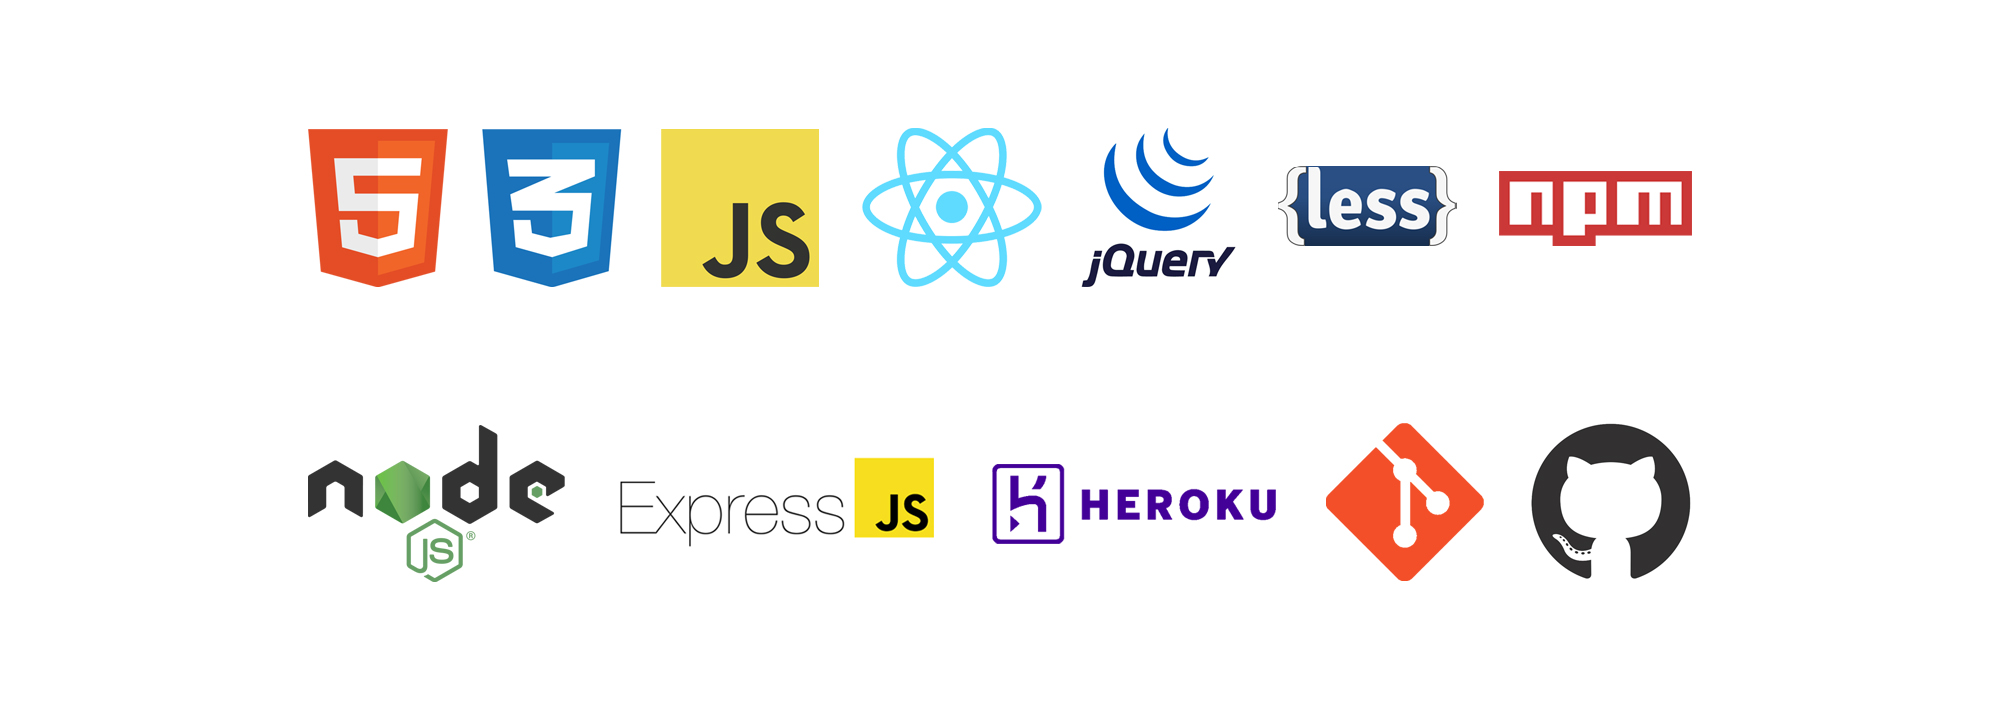
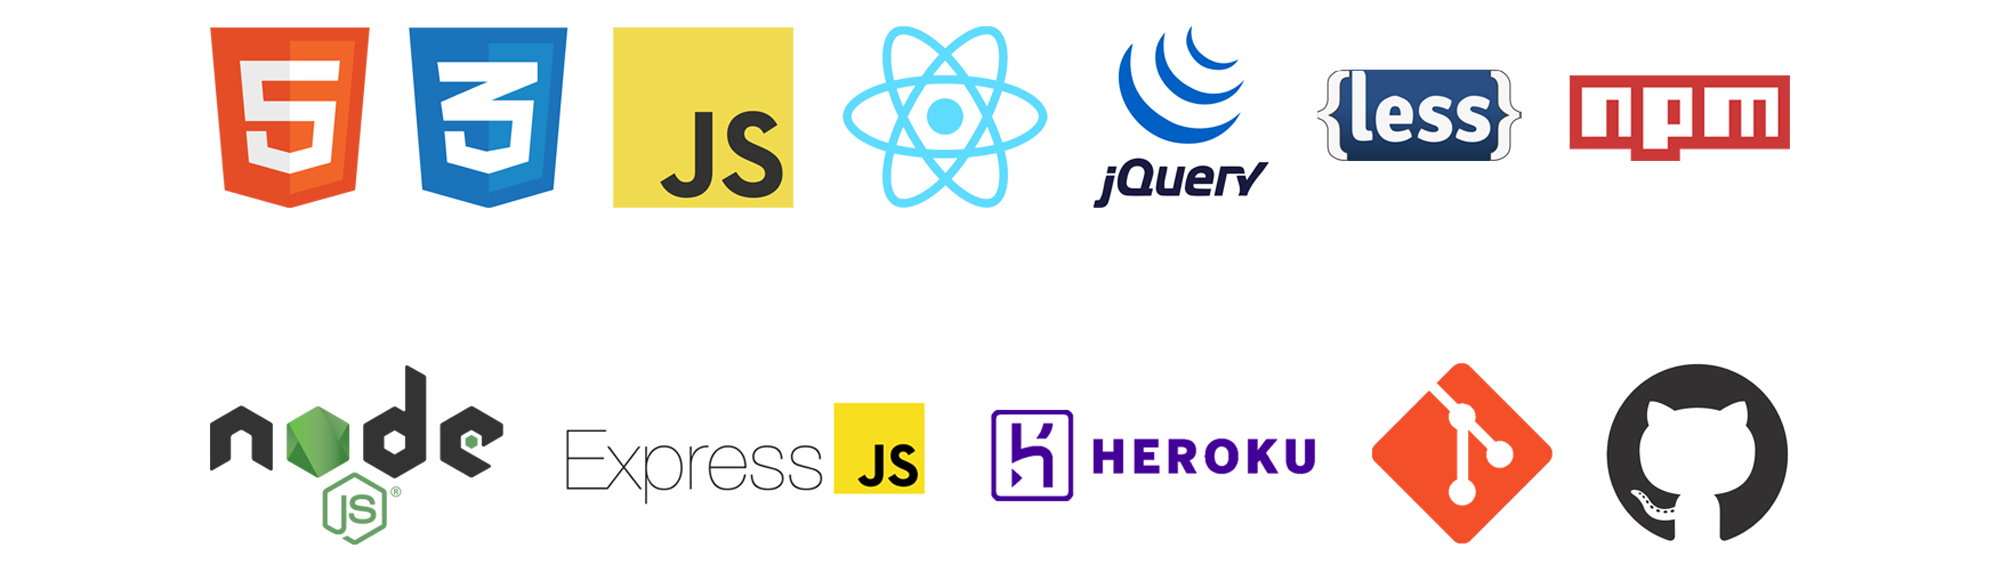
tech img txt

diff --git a/style.css b/style.css
@@ -60,6 +60,7 @@ a {
 	font-size: 18px;
 	font-weight: 800;
 	color: #242424;
+	padding-right: 10%;
 }
 
 /*/ >>> TYPE SETTINGS (END) body <<< /*/
@@ -78,7 +79,7 @@ img {
 	max-width: 100%;
 	height: auto;
 	width: auto;
-	padding-right: 20px;
+	padding-right: 2%;
 }
 
 /*/ >>> BOXES (END) body <<< /*/
@@ -95,7 +96,7 @@ footer {
 
 footer ul {
 	list-style-type: none;
-  width: 96%;
+	width: 96%;
 }
 
 footer ul li {
@@ -187,7 +188,7 @@ footer ul li {
 		max-width: 100%;
 		height: auto;
 		width: auto;
-		padding-right: 15%;
+		padding-right: 2%;
 		}
 	
 	/*/ *** BOXES (END) 1200 px *** /*/
@@ -203,7 +204,7 @@ footer ul li {
 	}
 
 	footer ul {
-  	list-style: none;
+  		list-style: none;
  		width: 100%;
 		text-align: center;
 	}
@@ -213,7 +214,7 @@ footer ul li {
 		float: left;
 		clear: right;
 		padding-top: 26px;
-  	padding-bottom: 22px;
+  		padding-bottom: 22px;
 		border: none;
 		font-size: 13px;
 		letter-spacing: 5px;
@@ -294,7 +295,7 @@ footer ul li {
 		max-width: 100%;
 		height: auto;
 		width: auto;
-		padding-right: 10%;
+		padding-right: 2%;
 	}
 	
 	/*/ *** BOXES (END) 1000 px *** /*/
@@ -320,7 +321,7 @@ footer ul li {
 		float: left;
 		clear: right;
 		padding-top: 26px;
-  	padding-bottom: 22px;
+  		padding-bottom: 22px;
 		border: none;
 		font-size: 14px;
 		letter-spacing: 5px;
@@ -391,6 +392,11 @@ footer ul li {
 		font-weight: lighter;
 		vertical-align: baseline;
 	}
+	
+	a {
+		font-size: 11px;
+		padding-right: 5%;
+	}
 
 	/*/ *** TYPE SETTINGS (END) 800 px *** /*/
 
@@ -401,7 +407,7 @@ footer ul li {
 		max-width: 100%;
 		height: auto;
 		width: auto;
-		padding-right: 10%;
+		padding-right: 2%;
 	}
 	
 	/*/ *** BOXES (END) 800 px *** /*/
@@ -427,7 +433,7 @@ footer ul li {
 		float: left;
 		clear: right;
 		padding-top: 26px;
-  	padding-bottom: 22px;
+  		padding-bottom: 22px;
 		border: none;
 		font-size: 14px;
 		letter-spacing: 5px;
@@ -500,6 +506,11 @@ footer ul li {
 		vertical-align: baseline;
 	}
 
+	a {
+		font-size: 11px;
+		padding-right: 5%;
+	}
+
 	/*/ *** TYPE SETTINGS (END) 600 px *** /*/
 
 	/*/ *** BOXES (START) 600 px *** /*/
@@ -510,7 +521,7 @@ footer ul li {
 		max-height: 100%;
 		height: auto;
 		width: auto;
-		padding-right: 5%;
+		padding-right: 2%;
 	}
 	
 	/*/ *** BOXES (END) 600 px *** /*/
@@ -536,7 +547,7 @@ footer ul li {
 		float: left;
 		clear: right;
 		padding-top: 26px;
-  	padding-bottom: 22px;
+  		padding-bottom: 22px;
 		border: none;
 		font-size: 12px;
 		letter-spacing: 5px;

diff --git a/index.html b/index.html
@@ -53,7 +53,9 @@
                     </h3>
 
                 <h2>Tech</h2>
-                <img src="images/tech.jpg"/>
+                    <h3>
+                        <img src="images/tech.jpg"/>
+                    </h3>
 
 
                 <img src="images/test.jpg"/>
@@ -140,11 +142,11 @@
 
             <div>
                 
-                <h3><a href="https://docs.google.com/document/d/1vRXXjjKYia4mtBK06dEglWIZhQ5z75vB7GnHWEvwjhM/edit?usp=sharing" target="_blank"><img class="logo" src="images/cv-logo.png">CV</a></h3>
-                <br>
-                <h3><a href="https://www.linkedin.com/in/zoltan-almodo-8b184259/" target="_blank"><img class="logo" src="images/linkedin-logo.png">LinkedIn</a></h3>
-                <br>
-                <h3><a href="https://github.com/zoltanalmodo/zoltanalmodo.github.io" target="_blank"><img class="logo" src="images/github-logo.png">GitHub</a></h3>
+                <h3>
+                    <a href="https://docs.google.com/document/d/1vRXXjjKYia4mtBK06dEglWIZhQ5z75vB7GnHWEvwjhM/edit?usp=sharing" target="_blank"><img class="logo" src="images/cv-logo.png">CV</a>
+                    <a href="https://www.linkedin.com/in/zoltan-almodo-8b184259/" target="_blank"><img class="logo" src="images/linkedin-logo.png">LinkedIn</a>
+                    <a href="https://github.com/zoltanalmodo/zoltanalmodo.github.io" target="_blank"><img class="logo" src="images/github-logo.png">GitHub</a>
+                </h3>
                 <br>
                 <br>
                 <br>
